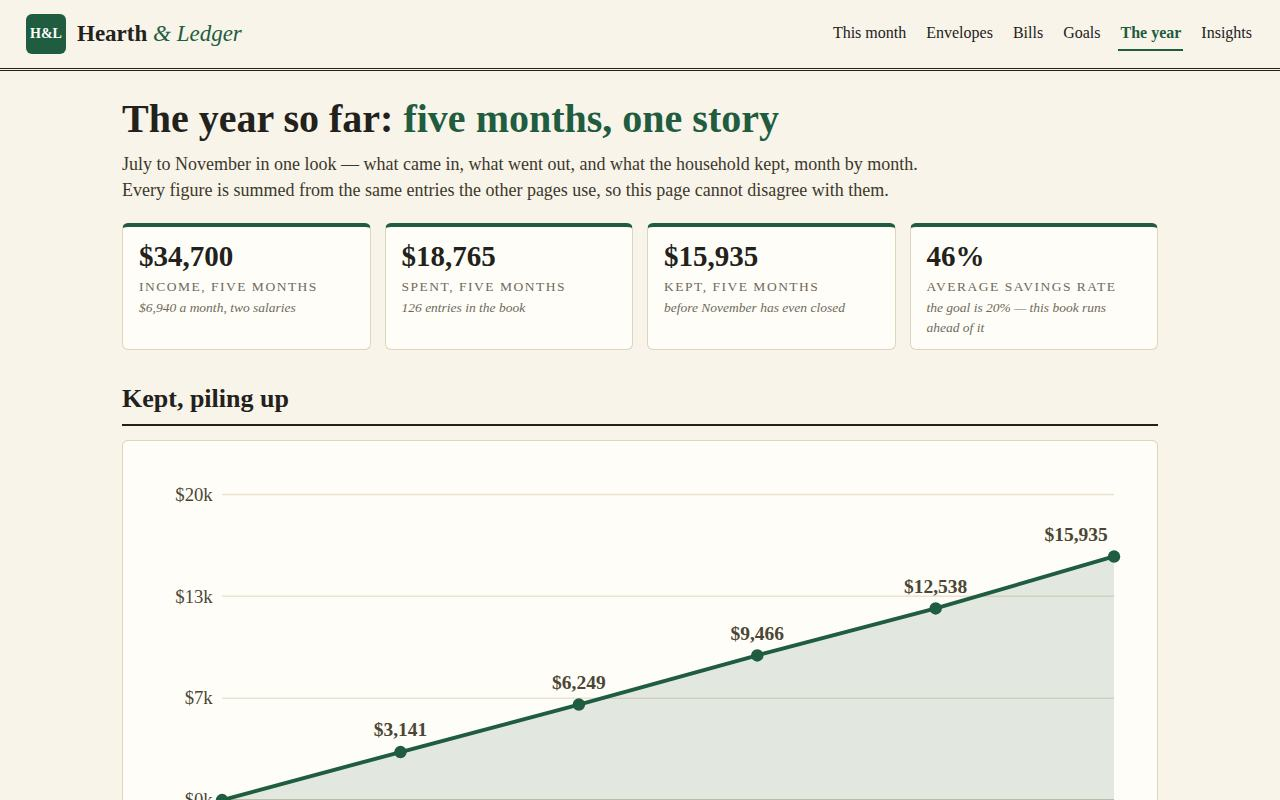
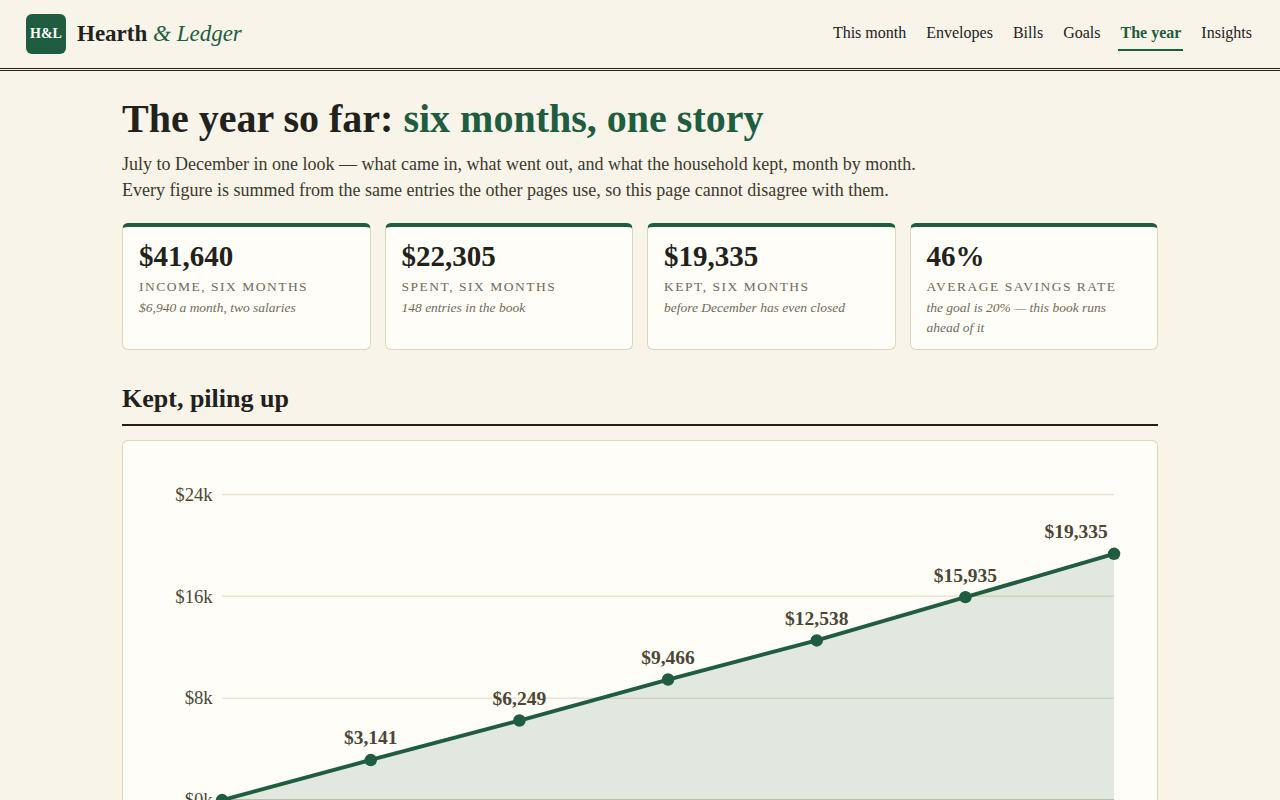
v3: the book rolls into December — sixth month of ledger, November closed
- December 2026 added as the open month (22 entries to the 20th, $3,540 spent / $3,400 kept so far), November closed; six-month year totals $41,640 in / $22,305 spent / $19,335 kept
- Bills page re-anchored to December with December's own amounts (electricity $118, water $54; total $2,448)
- Goal finish lines now counted from December 2026 on both the Goals page and the what-if bench
- Every hard-coded 'five months'/'November' string is now computed from the ledger (month-count words, month range, open-month notes, remaining-bills figure)
- Envelope pace note uses the month's real last day (31st); add-expense/add-bill day clamps respect a 31-day month

diff --git a/app/views.js b/app/views.js
@@ -5,6 +5,9 @@
 
 // ---------- money + computation ----------
 const $ = (n) => '$' + Math.round(n).toLocaleString('en-US');
+const ord = (n) => n + (n % 10 === 1 && n !== 11 ? 'st' : n % 10 === 2 && n !== 12 ? 'nd' : n % 10 === 3 && n !== 13 ? 'rd' : 'th');
+const nWord = (n) => ['', 'one', 'two', 'three', 'four', 'five', 'six', 'seven', 'eight'][n] || String(n);
+const cap = (s) => s.charAt(0).toUpperCase() + s.slice(1);
 const catById = (id) => LEDGER.categories.find((c) => c.id === id);
 const incomeTotal = () => LEDGER.incomes.reduce((a, i) => a + i.monthly, 0);
 
@@ -24,13 +27,13 @@ function spentTotal(state, monthId) {
 function monthMeta(monthId) { return LEDGER.months.find((m) => m.id === monthId); }
 // The bill schedule is the ledger's nine regulars plus any the visitor adds this session.
 function allBills(state) { return [...LEDGER.bills, ...(state.addedBills || [])]; }
-// A goal's finish line, counted from November 2026 — the same maths the Goals page uses.
+// A goal's finish line, counted from December 2026 — the same maths the Goals page uses.
 function goalMonths(goal, monthly) {
   return Math.max(0, Math.ceil((goal.target - goal.saved) / monthly));
 }
 function goalEta(months) {
   if (months === 0) return 'funded';
-  return new Date(2026, 10 + months, 1).toLocaleDateString('en-US', { month: 'long', year: 'numeric' });
+  return new Date(2026, 11 + months, 1).toLocaleDateString('en-US', { month: 'long', year: 'numeric' });
 }
 
 // ---------- shared pieces ----------
@@ -59,7 +62,7 @@ function envelope(cat, spent, state, monthId) {
     cls = 'hot';
     hint = `<span class="hint">Running hot: ${$((left / (meta.days - meta.today + 1))).replace('.00', '')} a day left for the rest of the month.</span>`;
   } else if (!meta.closed) {
-    hint = `<span class="hint">${$(left)} left — about ${$(left / Math.max(1, meta.days - meta.today + 1))} a day to the 30th.</span>`;
+    hint = `<span class="hint">${$(left)} left — about ${$(left / Math.max(1, meta.days - meta.today + 1))} a day to the ${ord(meta.days)}.</span>`;
   } else {
     hint = `<span class="hint">${$(left)} left over at month's end.</span>`;
   }
@@ -277,7 +280,7 @@ const Views = {
   },
 
   bills(state) {
-    const meta = monthMeta('2026-11');
+    const meta = monthMeta('2026-12');
     const bills = allBills(state);
     const rows = [...bills].sort((a, b) => a.due - b.due).map((b) => {
       const paid = state.paid[b.name];
@@ -287,7 +290,7 @@ const Views = {
       else if (b.due - meta.today <= 3) status = `<span class="pill due">Due in ${b.due - meta.today} day${b.due - meta.today === 1 ? '' : 's'}</span>`;
       else status = `<span class="pill">Due in ${b.due - meta.today} days</span>`;
       return `<tr class="${paid ? 'paid' : ''}"><td>${b.name}</td><td class="num">${$(b.amt)}</td>
-        <td>Nov ${b.due}</td><td>${b.autopay ? 'Autopay' : 'Manual — by hand'}</td><td>${status}</td>
+        <td>Dec ${b.due}</td><td>${b.autopay ? 'Autopay' : 'Manual — by hand'}</td><td>${status}</td>
         <td><button type="button" class="paybtn ${paid ? 'done' : ''}" data-pay="${b.name}">${paid ? 'Paid ✓' : 'Mark paid'}</button></td></tr>`;
     }).join('');
     const total = bills.reduce((a, b) => a + b.amt, 0);
@@ -299,20 +302,20 @@ const Views = {
       : `${manual.length} are paid by hand`;
     return `
     <div class="hero"><h1>Bills: <span class="accent">nothing arrives as a surprise</span></h1>
-    <p class="lede">The ${bills.length} regular bills, on their November dates. ${autoCount} run on autopay; the
+    <p class="lede">The ${bills.length} regular bills, on their December dates. ${autoCount} run on autopay; the
     rent is paid by hand on the 1st, deliberately — it is the one number worth looking at every
     month. Marking a bill paid updates the month's position below, and a new regular bill can
     be added at the foot of the page.</p></div>
     <div class="stat-grid">
       <div class="stat"><div class="v">${$(total)}</div><div class="l">Bills every month</div><div class="s">across ${bills.length} bills</div></div>
       <div class="stat"><div class="v">${$(paidTotal)}</div><div class="l">Marked paid</div><div class="s">in this session's book</div></div>
-      <div class="stat"><div class="v">${$(total - paidTotal)}</div><div class="l">Still to go out</div><div class="s">before Nov 30</div></div>
+      <div class="stat"><div class="v">${$(total - paidTotal)}</div><div class="l">Still to go out</div><div class="s">before Dec 31</div></div>
       <div class="stat"><div class="v">${autoCount} of ${bills.length}</div><div class="l">On autopay</div><div class="s">${manualNote}</div></div>
     </div>
     <section class="block">
       <table class="bills"><thead><tr><th>Bill</th><th class="num">Amount</th><th>Due</th><th>How it pays</th><th>Status</th><th></th></tr></thead>
       <tbody>${rows}</tbody></table>
-      <p class="note">Due dates are November 2026's. A bill marked "was due" here is one whose
+      <p class="note">Due dates are December 2026's. A bill marked "was due" here is one whose
       date has passed without a paid mark in this session — in the family's real book it left on
       autopay; the button is how the paper copy gets ticked off.</p>
       <div class="panel">
@@ -320,7 +323,7 @@ const Views = {
         <form class="add" id="bill-form">
           <input name="name" required maxlength="48" placeholder="Bill name, e.g. Piano lessons">
           <input name="amt" required type="number" min="1" max="100000" step="0.01" placeholder="$">
-          <input name="due" type="number" min="1" max="30" value="15" aria-label="Due day of month">
+          <input name="due" type="number" min="1" max="31" value="15" aria-label="Due day of month">
           <label class="check"><input type="checkbox" name="autopay"> Autopay</label>
           <button type="submit">Add it</button>
         </form>
@@ -337,7 +340,7 @@ const Views = {
       const monthly = g.monthly + extra;
       const months = Math.max(0, Math.ceil((g.target - g.saved) / monthly));
       const pct = Math.round((g.saved / g.target) * 100);
-      const eta = new Date(2026, 10 + months, 1);
+      const eta = new Date(2026, 11 + months, 1);
       const etaLabel = months === 0 ? 'funded' : eta.toLocaleDateString('en-US', { month: 'long', year: 'numeric' });
       return `<div class="panel goal">
         <h3>${g.name}</h3>
@@ -376,20 +379,24 @@ const Views = {
     const tight = [...closed].sort((a, b) => a.rate - b.rate)[0];
     const ef = LEDGER.goals[0];
     const efLeft = ef.target - ef.saved;
+    const nMonths = nWord(rows.length);
+    const openRow = rows.find((r) => !r.m.closed);
+    const openName = openRow.m.label.split(' ')[0];
+    const stillToLeave = LEDGER.bills.filter((b) => b.due > openRow.m.today).reduce((a, b) => a + b.amt, 0);
     const tableRows = rows.map((r) => `<tr>
       <td>${r.m.label}${r.m.closed ? '' : ' <span class="pill due">open</span>'}</td>
       <td class="num">${$(inc)}</td><td class="num">${$(r.spent)}</td>
       <td class="num"><strong>${$(r.kept)}</strong></td><td class="num">${r.rate}%</td>
       <td>${r.top.name} — ${$(r.topAmt)}</td></tr>`).join('');
     return `
-    <div class="hero"><h1>The year so far: <span class="accent">five months, one story</span></h1>
-    <p class="lede">July to November in one look — what came in, what went out, and what the
+    <div class="hero"><h1>The year so far: <span class="accent">${nMonths} months, one story</span></h1>
+    <p class="lede">${rows[0].m.label.split(' ')[0]} to ${openName} in one look — what came in, what went out, and what the
     household kept, month by month. Every figure is summed from the same entries the other
     pages use, so this page cannot disagree with them.</p></div>
     <div class="stat-grid">
-      <div class="stat"><div class="v">${$(totInc)}</div><div class="l">Income, five months</div><div class="s">${$(inc)} a month, two salaries</div></div>
-      <div class="stat"><div class="v">${$(totSpent)}</div><div class="l">Spent, five months</div><div class="s">${rows.reduce((a, r) => a + monthExpenses(state, r.m.id).length, 0)} entries in the book</div></div>
-      <div class="stat"><div class="v">${$(totKept)}</div><div class="l">Kept, five months</div><div class="s">before November has even closed</div></div>
+      <div class="stat"><div class="v">${$(totInc)}</div><div class="l">Income, ${nMonths} months</div><div class="s">${$(inc)} a month, two salaries</div></div>
+      <div class="stat"><div class="v">${$(totSpent)}</div><div class="l">Spent, ${nMonths} months</div><div class="s">${rows.reduce((a, r) => a + monthExpenses(state, r.m.id).length, 0)} entries in the book</div></div>
+      <div class="stat"><div class="v">${$(totKept)}</div><div class="l">Kept, ${nMonths} months</div><div class="s">before ${openName} has even closed</div></div>
       <div class="stat"><div class="v">${avgRate}%</div><div class="l">Average savings rate</div><div class="s">${avgRate >= 20 ? 'the goal is 20% — this book runs ahead of it' : 'against a goal of 20%'}</div></div>
     </div>
     <section class="block">
@@ -398,19 +405,20 @@ const Views = {
       <p class="note">${rows.every((r) => r.kept >= 0)
         ? 'The line only ever climbs: no month in this book spent more than came in.'
         : 'A month that spends more than comes in pulls the line down — the book shows it rather than hiding it.'}
-      November's point is counted to the 27th and will edge a little higher by the 30th.</p></div>
+      ${openName}'s point is counted to the ${ord(openRow.m.today)}, with ${$(stillToLeave)} of regular bills
+      still to leave before the ${ord(openRow.m.days)} — it will settle a little lower than it stands today.</p></div>
     </section>
     <section class="block">
       <h2>Month by month</h2>
       <table class="bills"><thead><tr><th>Month</th><th class="num">Income</th><th class="num">Spent</th><th class="num">Kept</th><th class="num">Saved</th><th>Biggest envelope</th></tr></thead>
       <tbody>${tableRows}</tbody>
-      <tfoot><tr><td><strong>Five months</strong></td><td class="num"><strong>${$(totInc)}</strong></td>
+      <tfoot><tr><td><strong>${cap(nMonths)} months</strong></td><td class="num"><strong>${$(totInc)}</strong></td>
       <td class="num"><strong>${$(totSpent)}</strong></td><td class="num"><strong>${$(totKept)}</strong></td>
       <td class="num"><strong>${avgRate}%</strong></td><td></td></tr></tfoot></table>
       <div class="panel">
         <p class="verdict">Best closed month: <b>${best.m.label.split(' ')[0]}</b>, which kept ${$(best.kept)}
         (${best.rate}% of income). Tightest: <b>${tight.m.label.split(' ')[0]}</b>, at ${$(tight.kept)} (${tight.rate}%)${tight.rate >= 40
-          ? ' — and even the tightest month kept more than two-fifths of what came in' : ''}. Across the five months the
+          ? ' — and even the tightest month kept more than two-fifths of what came in' : ''}. Across the ${nMonths} months the
         household kept <b>${$(totKept)}</b>; the ${ef.name.toLowerCase()} alone still wants ${$(efLeft)} of its
         ${$(ef.target)} target, which is where the Goals page points it.</p>
       </div>
@@ -432,14 +440,14 @@ const Views = {
     };
     return `
     <div class="hero"><h1>Insights: <span class="accent">the honest mirror</span></h1>
-    <p class="lede">Five months side by side, where the money actually went, the 50/30/20
+    <p class="lede">${cap(nWord(LEDGER.months.length))} months side by side, where the money actually went, the 50/30/20
     check — needs near half of income, wants near a third, savings at a fifth — and a what-if
     bench for rehearsing a leaner month.</p></div>
     ${monthBar(state)}
     <section class="block">
       <h2>Income against spending</h2>
       <div class="panel">${trendChart(state)}
-      <p class="note">November is counted to the 27th; its bar will grow a little before the
+      <p class="note">${LEDGER.months.find((m) => !m.closed).label.split(' ')[0]} is counted to the ${ord(LEDGER.months.find((m) => !m.closed).today)}; its bar will grow a little before the
       month closes. The closed months kept ${LEDGER.months.filter((m) => m.closed).map((m) => `${m.label.split(' ')[0]} ${$(inc - spentTotal(state, m.id))}`).join(', ')}.</p></div>
     </section>
     <section class="block">

diff --git a/app/data.js b/app/data.js
@@ -1,7 +1,7 @@
 // Hearth & Ledger - the sample household's books. A two-income household (Alex and Sam, one
 // child) keeping a monthly budget in US dollars. The figures are the app's worked example:
 // every total on every page is computed from these entries, so the books always balance.
-// July through October are closed months; November runs to the 27th, today.
+// July through November are closed months; December runs to the 20th, today.
 'use strict';
 
 const LEDGER = {
@@ -162,13 +162,37 @@ const LEDGER = {
       { d: 26, name: 'Music & apps', cat: 'subs', amt: 30 },
       { d: 27, name: 'Coffee with friends', cat: 'dining', amt: 24 },
     ],
+    '2026-12': [
+      { d: 1, name: 'Rent', cat: 'housing', amt: 1850 },
+      { d: 2, name: 'HEB groceries', cat: 'groceries', amt: 164 },
+      { d: 3, name: 'Holiday cards & stamps', cat: 'household', amt: 26 },
+      { d: 5, name: 'Car insurance (monthly)', cat: 'transport', amt: 142 },
+      { d: 6, name: 'Electricity — Austin Energy', cat: 'utilities', amt: 118 },
+      { d: 7, name: 'Christmas tree & stand', cat: 'household', amt: 74 },
+      { d: 8, name: 'Trader Joe\'s', cat: 'groceries', amt: 89 },
+      { d: 9, name: 'Internet — fiber', cat: 'utilities', amt: 70 },
+      { d: 10, name: 'Fuel', cat: 'transport', amt: 56 },
+      { d: 11, name: 'Pharmacy', cat: 'health', amt: 37 },
+      { d: 12, name: 'Holiday gifts — nieces & nephew', cat: 'fun', amt: 118 },
+      { d: 13, name: 'HEB groceries', cat: 'groceries', amt: 172 },
+      { d: 14, name: 'Water & waste', cat: 'utilities', amt: 54 },
+      { d: 15, name: 'Winter recital — Mia', cat: 'kids', amt: 45 },
+      { d: 16, name: 'Baking supplies — cookie swap', cat: 'groceries', amt: 38 },
+      { d: 17, name: 'Fuel', cat: 'transport', amt: 48 },
+      { d: 18, name: 'Phones (two lines)', cat: 'utilities', amt: 88 },
+      { d: 18, name: 'Toy drive donation', cat: 'giving', amt: 40 },
+      { d: 19, name: 'Streaming bundle', cat: 'subs', amt: 38 },
+      { d: 19, name: 'Tamales night out', cat: 'dining', amt: 54 },
+      { d: 20, name: 'Costco run', cat: 'groceries', amt: 197 },
+      { d: 20, name: 'Coffee with friends', cat: 'dining', amt: 22 },
+    ],
   },
   bills: [
     { name: 'Rent', amt: 1850, due: 1, autopay: false },
     { name: 'Car insurance', amt: 142, due: 5, autopay: true },
-    { name: 'Electricity — Austin Energy', amt: 96, due: 6, autopay: true },
+    { name: 'Electricity — Austin Energy', amt: 118, due: 6, autopay: true },
     { name: 'Internet — fiber', amt: 70, due: 9, autopay: true },
-    { name: 'Water & waste', amt: 51, due: 14, autopay: true },
+    { name: 'Water & waste', amt: 54, due: 14, autopay: true },
     { name: 'Phones (two lines)', amt: 88, due: 18, autopay: true },
     { name: 'Streaming bundle', amt: 38, due: 19, autopay: true },
     { name: 'Music & apps', amt: 30, due: 26, autopay: true },
@@ -184,6 +208,7 @@ const LEDGER = {
     { id: '2026-08', label: 'August 2026', closed: true },
     { id: '2026-09', label: 'September 2026', closed: true },
     { id: '2026-10', label: 'October 2026', closed: true },
-    { id: '2026-11', label: 'November 2026', closed: false, today: 27, days: 30 },
+    { id: '2026-11', label: 'November 2026', closed: true },
+    { id: '2026-12', label: 'December 2026', closed: false, today: 20, days: 31 },
   ],
 };

diff --git a/app/main.js b/app/main.js
@@ -5,7 +5,7 @@
 'use strict';
 
 const state = {
-  month: '2026-11',
+  month: '2026-12',
   added: {}, // monthId -> [expenses added this session]
   addedBills: [], // regular bills added this session
   paid: {}, // bill name -> true
@@ -37,7 +37,8 @@ function wireBudget() {
     const name = String(fd.get('name') || '').trim();
     const amt = Number(fd.get('amt'));
     const cat = String(fd.get('cat'));
-    const day = Math.min(30, Math.max(1, Number(fd.get('day')) || 1));
+    const maxDay = (monthMeta(state.month) || {}).days || 31;
+    const day = Math.min(maxDay, Math.max(1, Number(fd.get('day')) || 1));
     if (!name || !(amt > 0)) return;
     (state.added[state.month] = state.added[state.month] || []).push({ d: day, name, cat, amt });
     render();
@@ -60,7 +61,7 @@ function wireBills() {
     const fd = new FormData(form);
     const name = String(fd.get('name') || '').trim();
     const amt = Number(fd.get('amt'));
-    const due = Math.min(30, Math.max(1, Number(fd.get('due')) || 1));
+    const due = Math.min(31, Math.max(1, Number(fd.get('due')) || 1));
     if (!name || !(amt > 0)) return;
     state.addedBills.push({ name, amt, due, autopay: fd.get('autopay') === 'on' });
     render();

diff --git a/main.ts b/main.ts
@@ -3,10 +3,10 @@
 //
 // The site lives in app/ as plain static files (app/index.html and its classic scripts and
 // stylesheet, no library, no network request): a household budget book for one worked-example
-// family — a month view with a five-month switcher, eleven spending envelopes with pace notes
+// family — a month view with a six-month switcher, eleven spending envelopes with pace notes
 // and a working add-an-expense form, a bills page with due dates, paid tick-offs and an
 // add-a-bill form, savings goals whose finish lines move with a slider, a year view that sums
-// all five months into a cumulative savings line and a month-by-month table, and an insights
+// all six months into a cumulative savings line and a month-by-month table, and an insights
 // page with the spending donut, an honest 50/30/20 check and a what-if bench that rehearses
 // trimming the "want" envelopes. Every total is computed from the same entries, so the books balance.
 // This program hands it in: it copies app/ and screenshots/ into the output directory, verifies

diff --git a/README.md b/README.md
@@ -14,24 +14,24 @@ the books always balance**. Six linked pages:
   the latest entries and what still has to leave the account. A switcher walks back through
   the closed books to July.
 - **Envelopes** — eleven spending envelopes with bars that run green, amber, then red, and a
-  plain-words note under each ("$X left — about $Y a day to the 30th"). The add-an-expense form
+  plain-words note under each ("$X left — about $Y a day to month's end"). The add-an-expense form
   really adds: every total in the book moves.
-- **Bills** — the regular bills on their November dates, autopay marked, each with a working
+- **Bills** — the regular bills on their December dates, autopay marked, each with a working
   "mark paid" tick that updates the month's position — and an add-a-bill form that joins a new
   regular bill to the table and the totals.
 - **Goals** — an emergency fund, a holiday trip and a car fund, each with its finish line; a
   slider per goal adds extra per month and the finish line moves, live.
-- **The year** — all five months summed: total kept, the average savings rate, a cumulative
+- **The year** — all six months summed: total kept, the average savings rate, a cumulative
   savings line that climbs month by month, and a month-by-month table with each month's
   biggest envelope, best month and tightest month called out.
-- **Insights** — income against spending across the five months, a category donut, an honest
+- **Insights** — income against spending across the six months, a category donut, an honest
   50/30/20 check with the verdict written out, and a what-if bench: trim the "want" envelopes
   with sliders and watch the freed money move the savings rate and every goal's finish line.
 
 ## Layout
 
 - `app/index.html` — the page shell and navigation
-- `app/data.js` — the household's books: incomes, envelopes, five months of entries, bills, goals
+- `app/data.js` — the household's books: incomes, envelopes, six months of entries, bills, goals
 - `app/views.js` — the six views, the charts, and every computation
 - `app/main.js` — session state, the hash router, and the wiring for every control
 - `app/style.css` — the warm ledger styling
